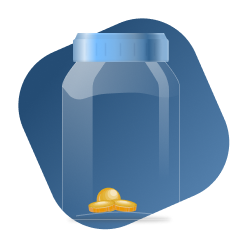
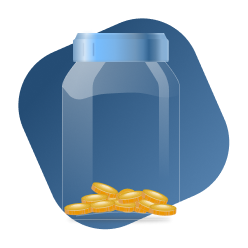
add appearence of percent of goal in monobank

Changed region(s): [[0.254, 0.7339, 0.7339, 0.875], [0.3669, 0.1694, 0.3952, 0.2258]]

diff --git a/src/components/Monobank/Monobank.tsx b/src/components/Monobank/Monobank.tsx
@@ -8,7 +8,6 @@ const Monobank = () => {
   const [statement, setStatement] = useState<any>(null);
 
   useEffect(() => {
-    console.log("monobank useEffect");
     const baseUrl = process.env.REACT_APP_BASE_URL;
     const fetchStatement = async () => {
       try {
@@ -24,6 +23,24 @@ const Monobank = () => {
 
     fetchStatement();
   }, []);
+
+  const calculateProgressTextPercentage = (balance: number, goal: number) => {
+    const minPercentage = 20;
+    const maxPercentage = 70;
+    const rawPercentage = (balance / goal) * 100;
+    return Math.max(minPercentage, Math.min(rawPercentage, maxPercentage));
+  };
+
+  const calculateProgresBarPercentage = (balance: number, goal: number) => {
+    const percent = Math.max(0, Math.min((balance / goal) * 100, 100));
+    const result = 100 - percent;
+    console.log("calculateProgresBarPercentage", percent, result);
+    return result;
+  };
+
+  const progressTextPercentage = statement ? calculateProgressTextPercentage(statement.balance, 60000) : 0;
+  const progressBarPercentage = statement ? calculateProgresBarPercentage(statement.balance, 60000) : 0;
+  console.log("progressBarPercentage", progressBarPercentage);
 
   return (
     <div className={styles.container}>
@@ -46,14 +63,19 @@ const Monobank = () => {
       <div className={styles.progressBarContainer}>
         <div className={styles.progressBar}>
           <div className={styles.currentProgress} />
-          {/* <div className={styles.progressMask}></div> */}
-          <svg className={styles.SVG} width="100%" height="100%" viewBox="0 0 100 30" preserveAspectRatio="none">
+          <div
+            className={styles.progressMask}
+            style={{ "--progress-width": `${progressBarPercentage}%` } as React.CSSProperties}
+          ></div>
+          {/* <svg className={styles.SVG} width="100%" height="100%" viewBox="0 0 100 30" preserveAspectRatio="none">
             <path d="M0,30 H100 Q90,15 100,30 H0 Z" fill="#e0e0e0" />
-          </svg>
+          </svg> */}
         </div>
         <div className={styles.progressText}>
           <div className={styles.start}>0</div>
-          <div className={styles.current}>20 000</div>
+          <div className={styles.current} style={{ left: `${progressTextPercentage}%`, transform: "translateX(-50%)" }}>
+            {statement?.balance}
+          </div>
           <div className={styles.end}>60 000</div>
         </div>
       </div>

diff --git a/src/components/Monobank/monobank.module.css b/src/components/Monobank/monobank.module.css
@@ -90,7 +90,7 @@
   position: absolute;
   top: 0;
   left: 0;
-  width: 30%; /* Ширина видимої частини прогрес-бару */
+  width: 30%;
   height: 100%;
   background: linear-gradient(90deg, #faff1e 0%, #fe8900 49.75%, #00ab1b 100%);
   border-radius: 30px 0 0 30px;
@@ -108,7 +108,7 @@
   position: absolute;
   top: 0;
   right: 0;
-  width: 70%; /* Ширина маски, яка закриває частину прогрес-бару */
+  width: var(--progress-width);
   height: 100%;
   background: #e0e0e0; /* Колір фону контейнера, щоб перекривати градієнт */
   border-radius: 0 30px 30px 0;
@@ -131,4 +131,15 @@
   text-align: center;
   color: rgba(252, 252, 252, 1);
   margin-bottom: 36px;
+  position: relative;
+}
+
+.start {
+}
+
+.current {
+  position: absolute;
+}
+
+.end {
 }

diff --git a/src/components/Telegram/Post.tsx b/src/components/Telegram/Post.tsx
@@ -14,7 +14,6 @@ interface PostProps {
 }
 
 const Post: React.FC<PostProps> = ({ text, images }) => {
-  console.log("Post text, images", text, images);
   return (
     <div className={styles.postContainer}>
       <div className={styles.galleryContainer}>
